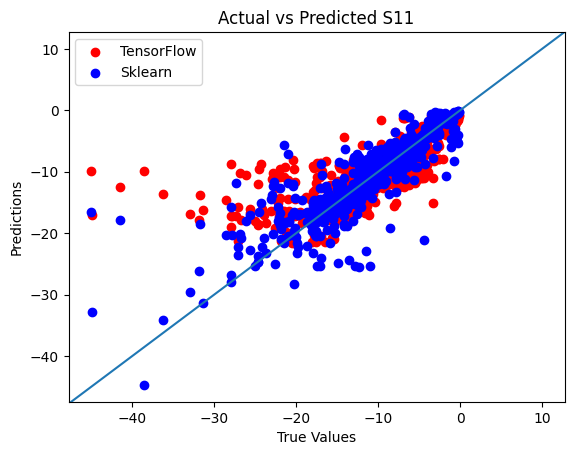
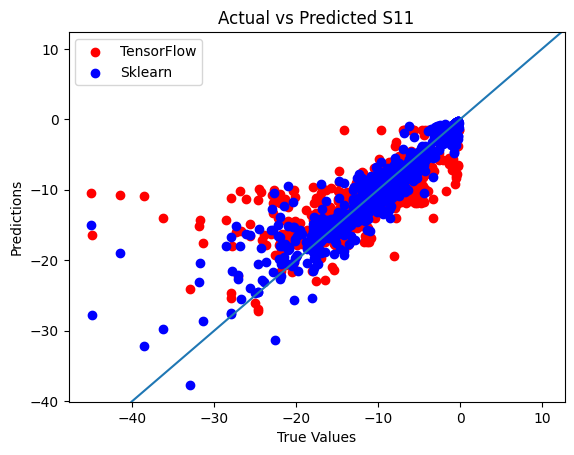
GRP writing: Begin updating numbers and figures for the standard scaler runs, correct explanation of R^2

diff --git a/grp/report/report.tex b/grp/report/report.tex
@@ -137,7 +137,7 @@ A GUI (graphical user interface) was created in order to make the process of fil
 \subsection{Library and Model Comparison with the Patch Antenna}
 The patch antenna was used to test and compare the performance of models from the two different libraries: TensorFlow and Scikit-learn. The best performing model was chosen from each library, and their training time, predicting time, accuracy, and RMSE were compared in order to select the best model.
 
-The Keras Tuner search for optimal hyperparameters of the DNN provided the results in Table~\ref{keras_best_params}. This was tested for both the patch antenna and the leaky wave antenna. The patch antenna was found to work best with a smaller DNN consisting of only two layers, where the leaky wave antenna performed best with more layers. The optimal learning rate was similar for both antennas, with the patch antenna having the higher learning rate. The DNNs were able to predict $S_{11}$ values with an error tolerance of~$\pm$1dB for the patch antenna and leaky wave antenna with a 77.57\% and 31.75\% accuracy respectively. These accuracies are not desirable, and might be an indicator that a DNN is too complex for this job.
+The Keras Tuner search for optimal hyperparameters of the DNN provided the results in Table~\ref{keras_best_params}. This was tested for both the patch antenna and the leaky wave antenna. The patch antenna was found to work best with a smaller DNN consisting of only two layers, where the leaky wave antenna performed best with more layers. The optimal learning rate was similar for both antennas, with the patch antenna having the higher learning rate. The DNNs were able to predict $S_{11}$ values with an error tolerance of~$\pm$1dB for the patch antenna and leaky wave antenna with a 84.17\% and 26.63\% accuracy respectively. These accuracies are not desirable, and might be an indicator that a DNN is too complex for this job.
 
 \begin{table}[h]
 \caption{Keras Tuner Best Hyperparameters}
@@ -146,17 +146,15 @@ The Keras Tuner search for optimal hyperparameters of the DNN provided the resul
     \hline
     Name & Patch Value & Leaky Wave Value \\ 
     \hline
-    num\_layers & 2 & 4 \\  
+    num\_layers & 2 & 3 \\  
     \hline
-    units\_0 & 416 & 256 \\
+    units\_0 & 256 & 480 \\
     \hline
     units\_1 & 32 & 32 \\
     \hline
     units\_2 & N/A & 32 \\
     \hline
-    units\_3 & N/A & 32 \\
-    \hline
-    learning\_rate & 0.0884 & 0.011724 \\
+    learning\_rate & 0.0841 & 0.0250 \\
     \hline
 \end{tabular}
 \end{center}
@@ -168,11 +166,11 @@ Figure~\ref{dnn_loss_graph} shows how the DNN's loss decreased as the number of 
 \begin{Figure}
     \centering
     \includegraphics[width=2.5in]{loss}
-    \captionof{figure}{DNN Loss Graph}
+    \captionof{figure}{DNN Loss Graph for Patch Antenna}
     \label{dnn_loss_graph}
 \end{Figure}
 
-Each of the Scikit-learn regression models performed differently than one another. After performing a randomized search for the best hyperparameters for each type of model, the score of the best configuration of each model was reported alongside the $R^2$ and RMSE scores. Please see Table~\ref{comparing_sklearn} for a summary of the results. The table is sorted by best to worst performance by score, RMSE, and $R^2$. The goal is to have the highest accuracy and the lowest RMSE $R^2$. 
+Each of the Scikit-learn regression models performed differently than one another. After performing a randomized search for the best hyperparameters for each type of model, the score of the best configuration of each model was reported alongside the $R^2$ and RMSE scores. Please see Table~\ref{comparing_sklearn} for a summary of the results. The table is sorted by best to worst performance by score, RMSE, and $R^2$. The goal is to have the accuracy and $R^2$ closest to one, and the RMSE closest to zero. 
 
 It's clear by looking at the table that RandomForestRegressor is the best performing model. It has the highest accuracy and the lowest RMSE, which proves that its predictions had the least distance from the actual $S_{11}$ values. When comparing TensorFlow to Scikit-learn, this is the model that will be used. 
 
@@ -202,9 +200,9 @@ It's clear by looking at the table that RandomForestRegressor is the best perfor
 \label{comparing_sklearn}
 \end{table}
 
-When comparing the TensorFlow and Scikit-learn libraries, the same random state was used when splitting the data into training and testing portions. This ensures that each library is given a fair chance with the same set of data and the data isn't being swayed unintentionally. The TensorFlow model had 500 epochs, but only used 44 of them due to the early stopping criteria that was set. 
+When comparing the TensorFlow and Scikit-learn libraries, the same random state was used when splitting the data into training and testing portions. This ensures that each library is given a fair chance with the same set of data and the data isn't being swayed unintentionally. The TensorFlow model had 500 epochs, but only used 35 of them due to the early stopping criteria that was set. 
 
-It's clear from the Table~\ref{comparing_libraries} that Scikit-learn is the best choice of library for this problem. The Scikit-learn model performed with 15.44\% better accuracy when predicting values with a tolerance of~$\pm$1dB. It trains and predicts significantly faster, and it has a lower RMSE.
+It's clear from the Table~\ref{comparing_libraries} that Scikit-learn is the best choice of library for this problem. The Scikit-learn model performed with 8.97\% better accuracy when predicting values with a tolerance of~$\pm$1dB. It trains and predicts significantly faster, and it has a lower RMSE.
 
 \begin{table}[h]
 \caption{Comparing Libraries}
@@ -213,20 +211,20 @@ It's clear from the Table~\ref{comparing_libraries} that Scikit-learn is the bes
     \hline
     Model Type & TensorFlow & Scikit-learn \\ 
     \hline
-    Training Time (s) & 67.0 & 32.7 \\  
+    Training Time (s) & 273.0s & 88.0 \\  
     \hline
-    Predicting Time (s) & 0.327 & 2.17 \\
+    Predicting Time (s) & 2.91 & 3.69 \\
     \hline
-    $S_{11}$ Accuracy within~$\pm$1dB & 0.7757 & 0.9301 \\
+    $S_{11}$ Accuracy within~$\pm$1dB & 0.8417 & 0.9314 \\
     \hline
-    RMSE & 2.2026 & 0.7652 \\
+    RMSE & 1.5050 & 0.7851 \\
     \hline
 \end{tabular}
 \end{center}
 \label{comparing_libraries}
 \end{table}
 
-Figure~\ref{histogram_of_error_patch} shows how the Sklearn model had lower error between the predicted $S_{11}$ values and the actual $S_{11}$ values than the TensorFlow model for the patch antenna. The TensorFlow model tended to make predictions that were lower than the actual values. Additionally, Figure~\ref{actual_vs_predicted_s11_patch} demonstrates how the $S_{11}$ predictions were closer to the actual values, which is depicted by the diagonal line, for the Sklearn model. The TensorFlow model had trouble predicting thet outliers. 
+Figure~\ref{histogram_of_error_patch} shows how the Sklearn model had lower error between the predicted $S_{11}$ values and the actual $S_{11}$ values than the DNN model for the patch antenna. The DNN model tended to make predictions that were lower than the actual values. Additionally, Figure~\ref{actual_vs_predicted_s11_patch} demonstrates how the $S_{11}$ predictions were closer to the actual values, which is depicted by the diagonal line, for the Sklearn model. The DNN model had trouble predicting thet outliers. 
 
 \begin{Figure}
     \centering
@@ -242,7 +240,7 @@ Figure~\ref{histogram_of_error_patch} shows how the Sklearn model had lower erro
     \label{actual_vs_predicted_s11_patch}
 \end{Figure}
 
-Figures~\ref{histogram_of_error_leaky_wave} and~\ref{actual_vs_predicted_s11_leaky_wave} show how the results for the leaky wave antenna are similar to those of the patch antenna. The leaky wave antenna was trained on significantly fewer geometries, and both figures show how the models were predicting with less accuracy for both Scikit-learn and Tensorflow. However, this does prove that Scikit-learn performed better for both antenna configurations.
+Figures~\ref{histogram_of_error_leaky_wave} and~\ref{actual_vs_predicted_s11_leaky_wave} show how the results for the leaky wave antenna are similar to those of the patch antenna. The leaky wave antenna was trained on significantly fewer geometries, which is reflected by the poorer overall performance of both the DNN model and the Scikit-learn model. Similarly to with the patch antenna, both figures prove that the Scikit-learn model makes $S_{11}$ predictions with higher accuracy than the DNN model.
 
 \begin{Figure}
     \centering
